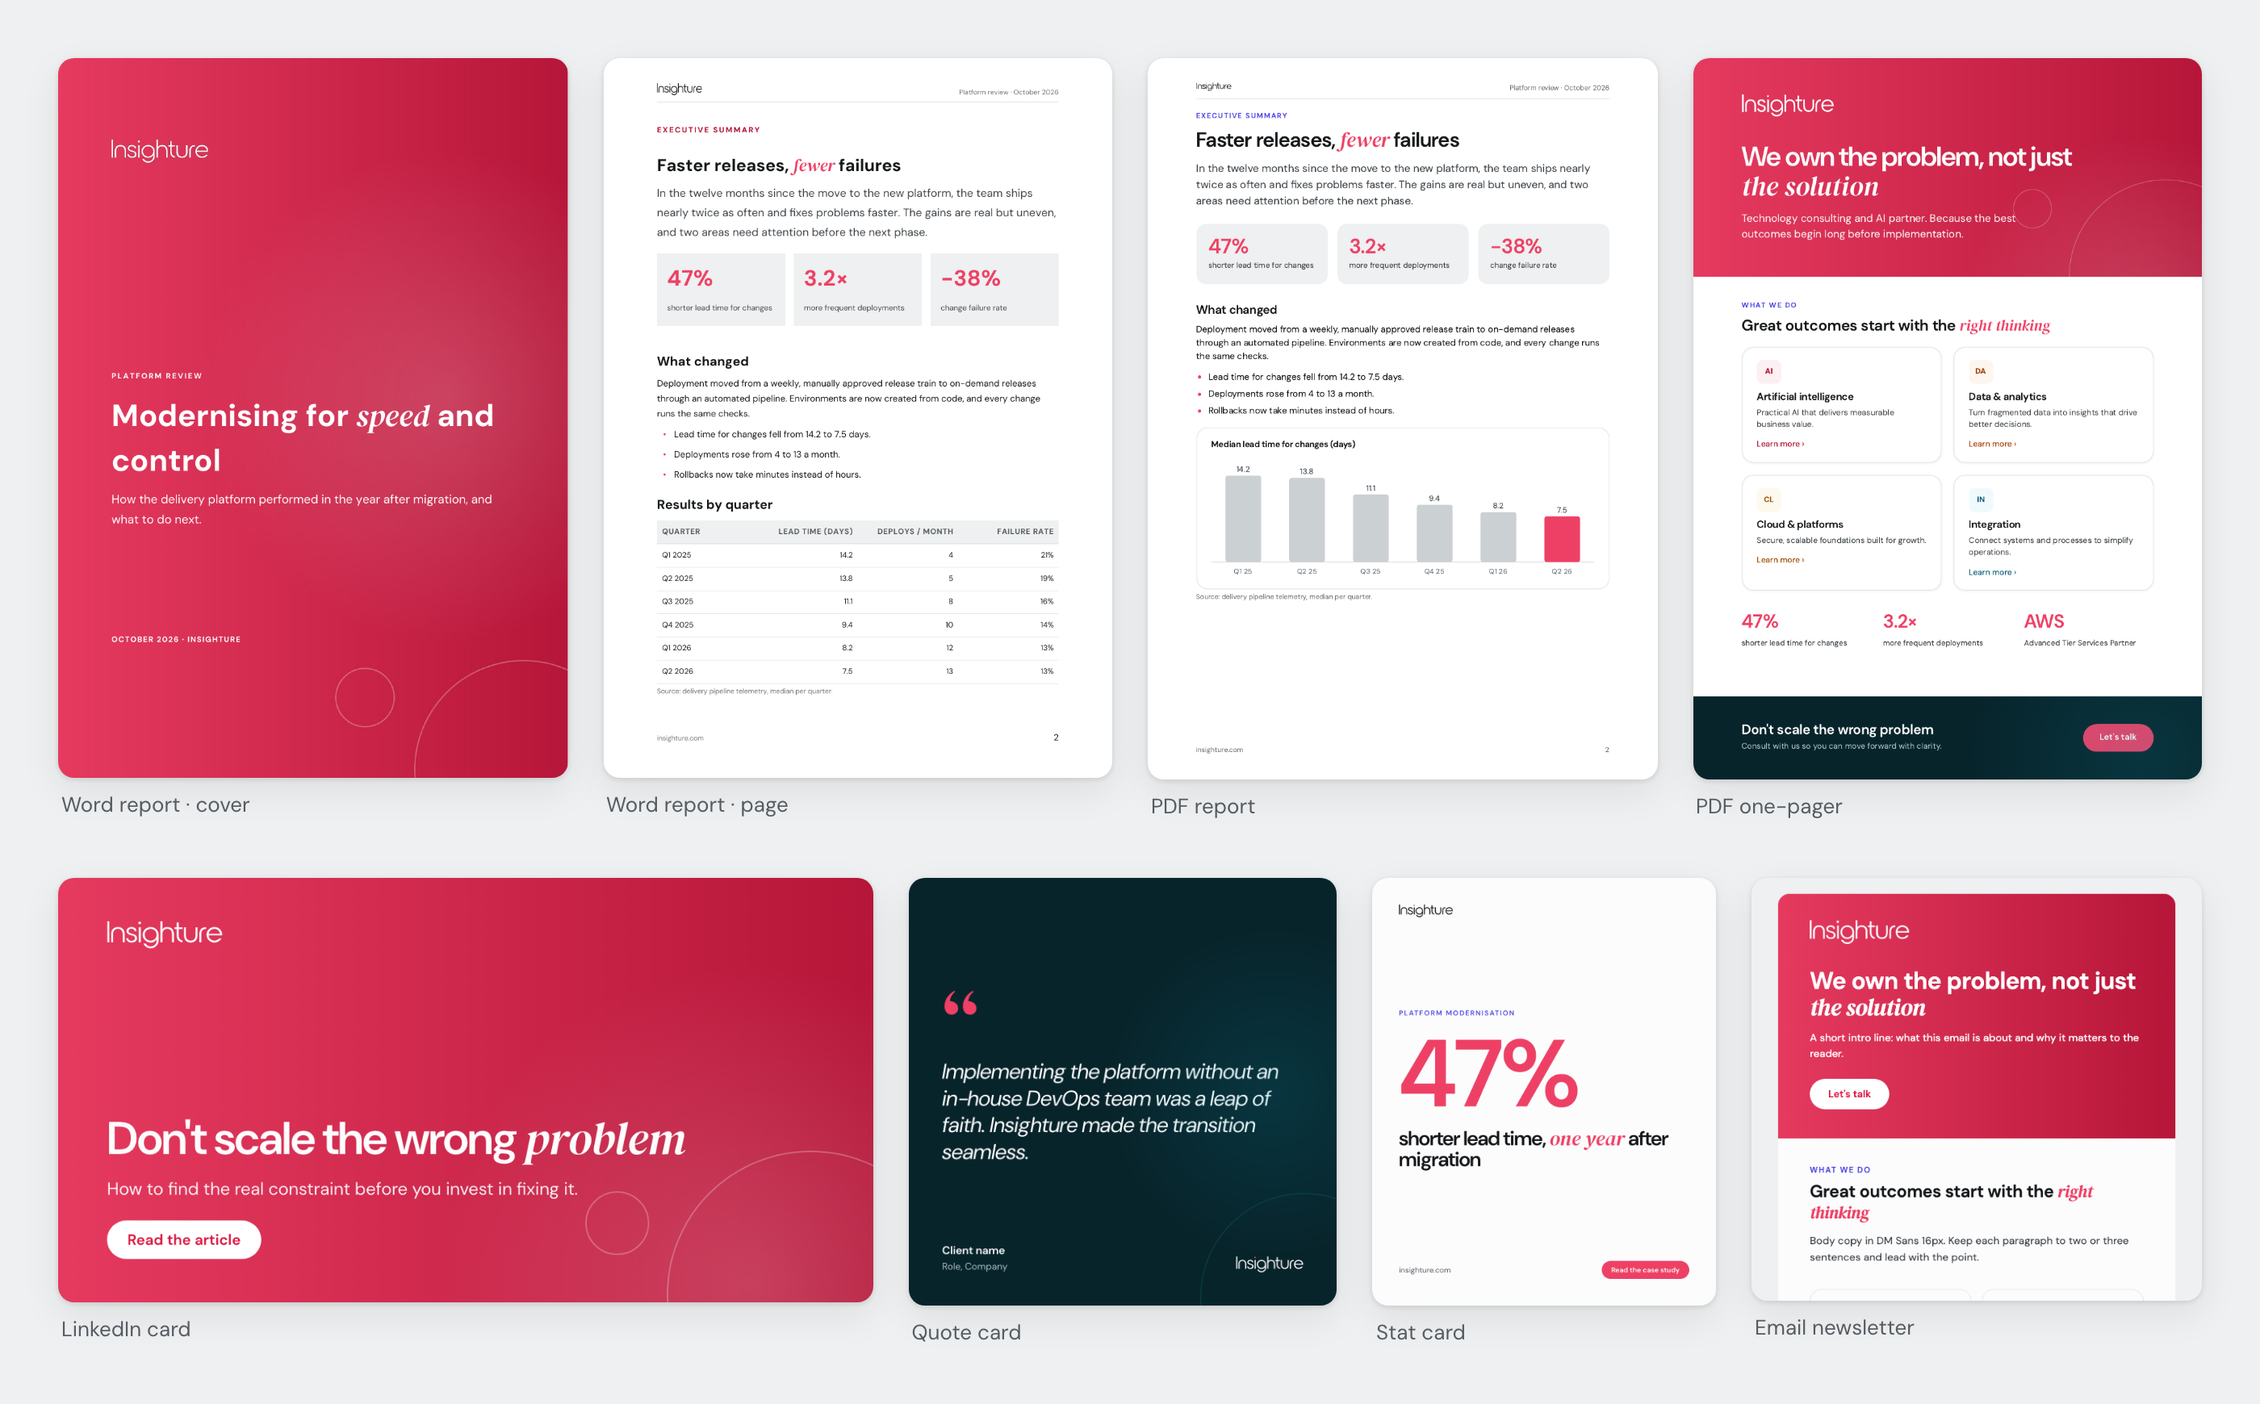
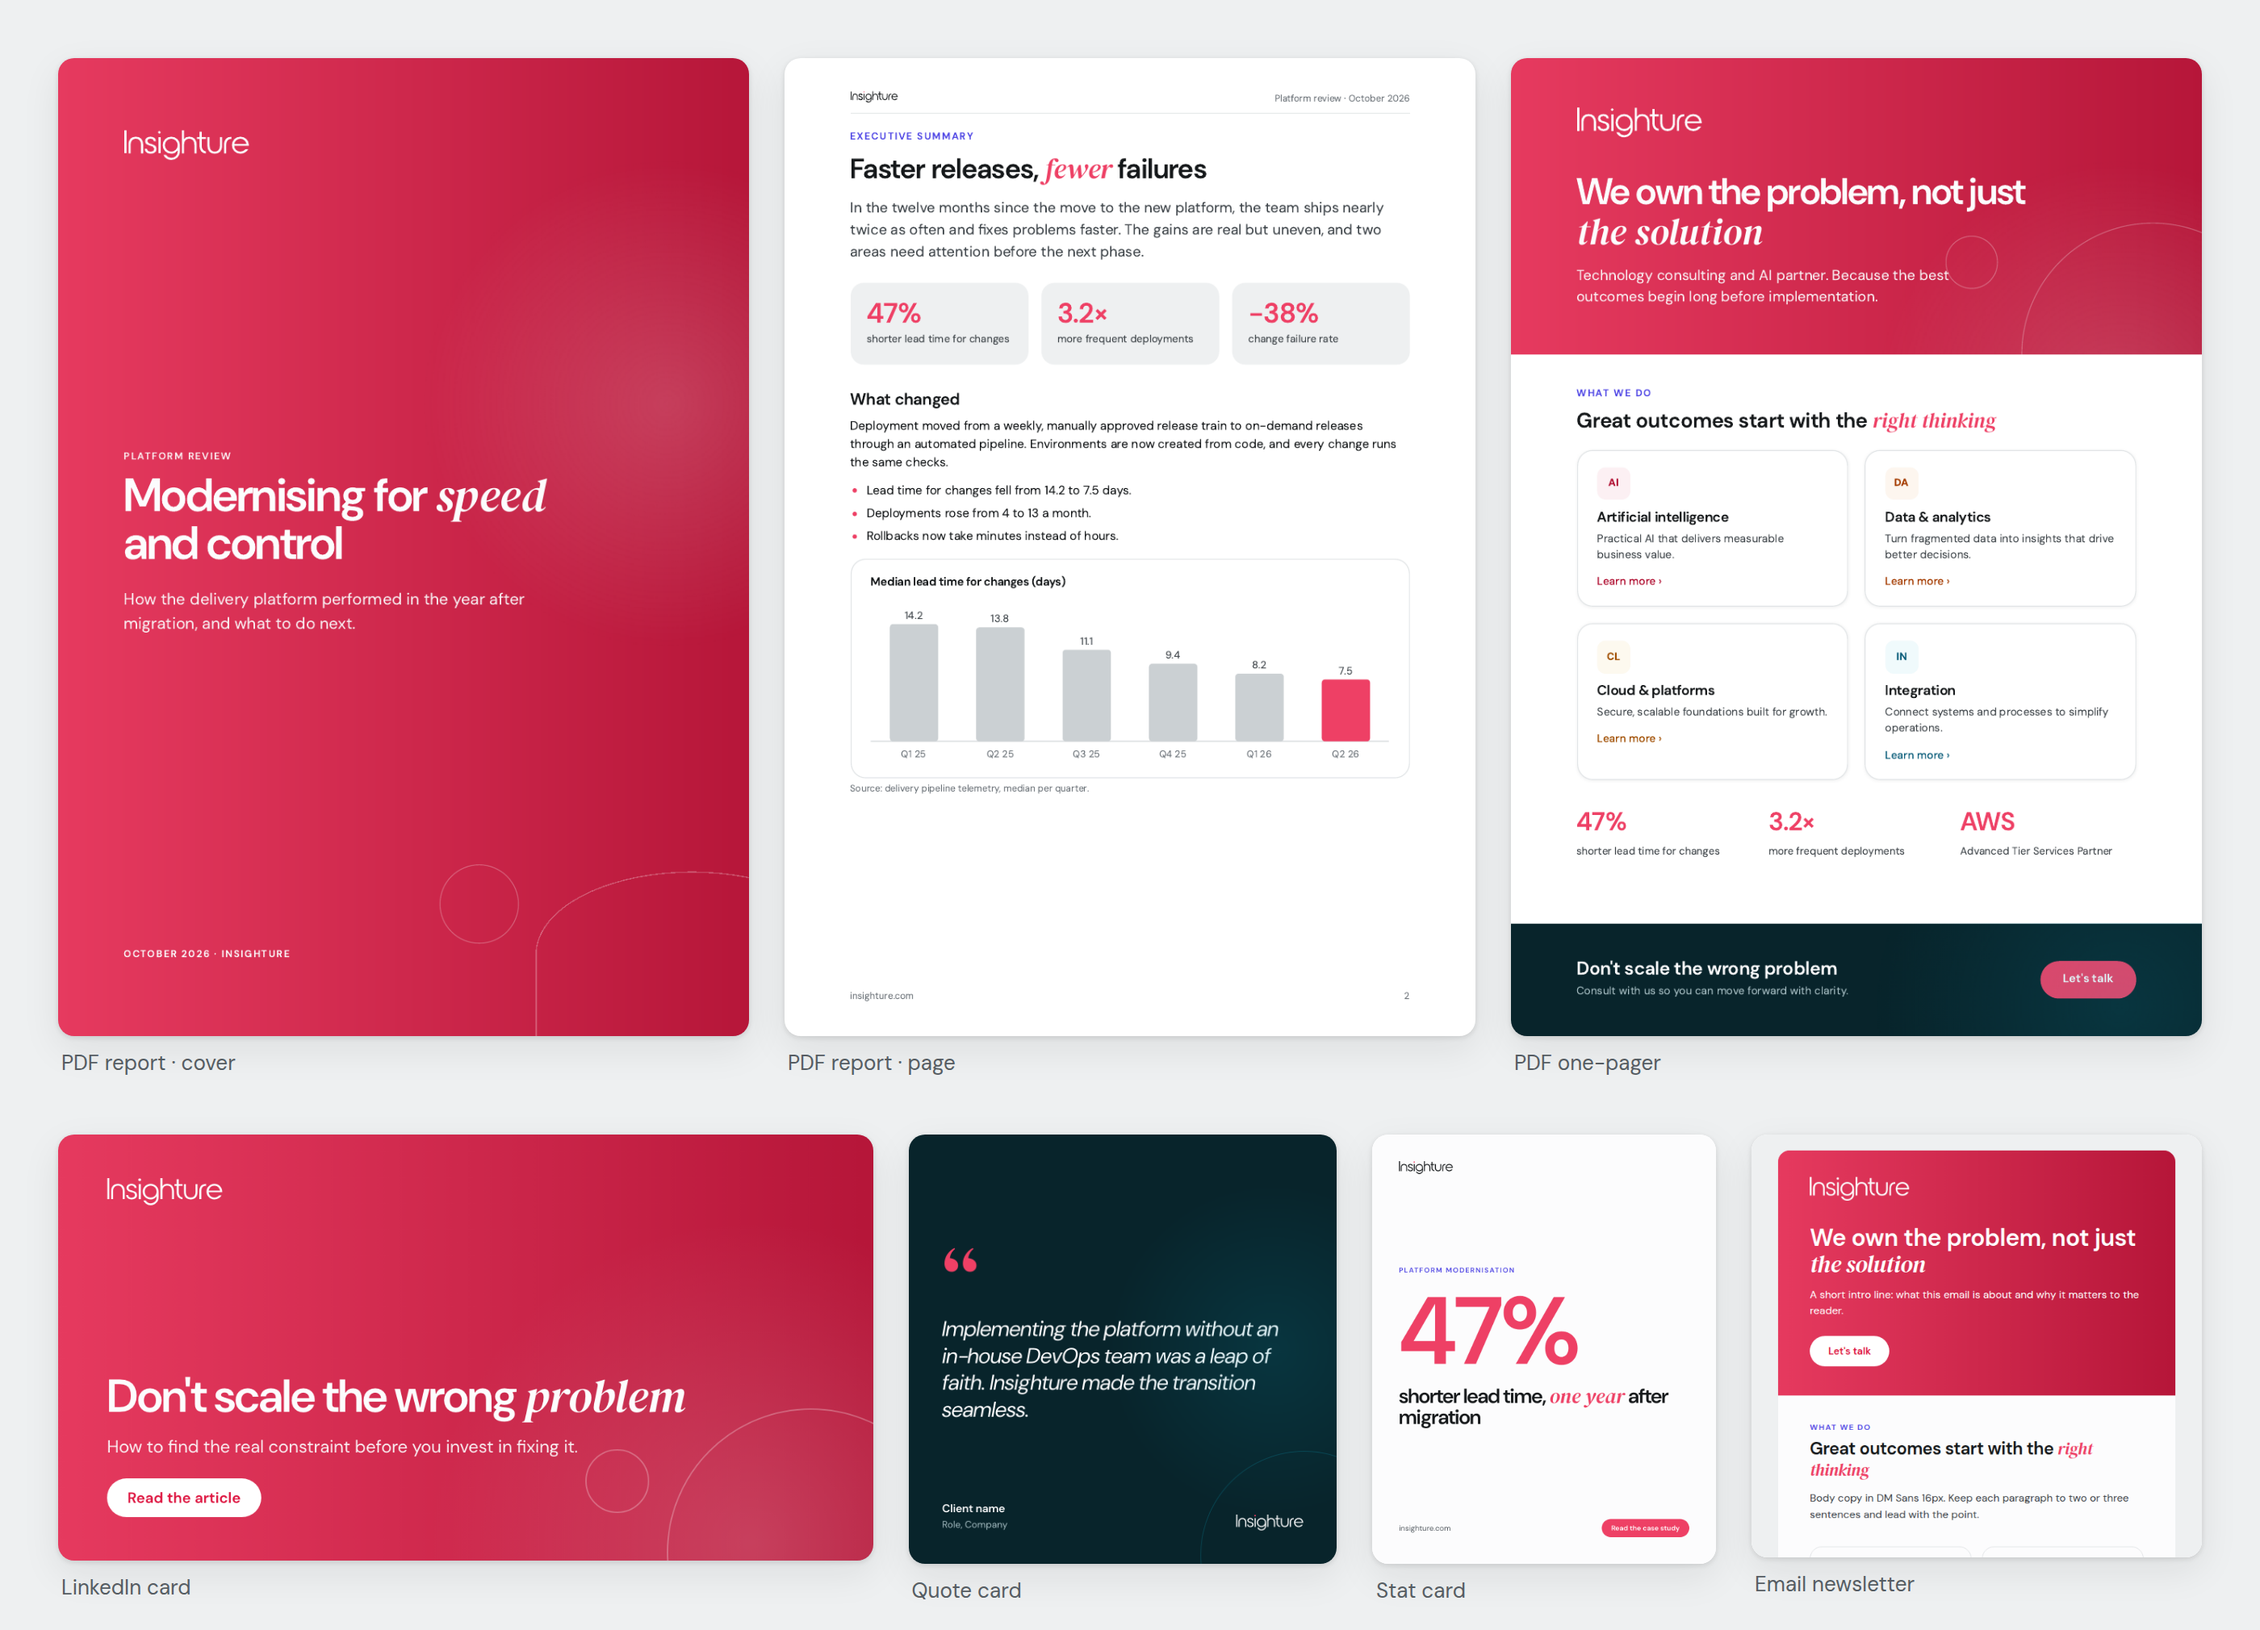
docs: re-render the documents gallery image without the removed Word report
The README's templates-documents.png still showed the Word report template that 3.0.0 removed. It now shows
what preview.mjs renders: the PDF report (cover and page), the one-pager, the social cards and the email.

templates:preview takes image names (`npm run templates:preview -- documents`), and only the slides image
needs LibreOffice, so the documents image can be re-rendered with Poppler and Chromium alone.

diff --git a/README.md b/README.md
@@ -136,7 +136,7 @@ npm run preview        # local showcase on http://localhost:5273: components, lo
 npm run typecheck
 npm run readme:assets  # re-render the images in this README
 npm run templates      # rebuild the Office / PDF / email / social templates
-npm run templates:preview  # re-render the template gallery images (needs LibreOffice + Poppler)
+npm run templates:preview  # re-render the template gallery images (needs Poppler; the slides need LibreOffice)
 ```
 
 `readme:assets` bundles `src/` and screenshots the scenes in
@@ -184,7 +184,7 @@ Usage rules (clear space, minimum size, what not to do) are in
 
 <img src="docs/assets/templates-slides.png" alt="Slides from the Insighture PowerPoint template" width="100%">
 
-<img src="docs/assets/templates-documents.png" alt="Insighture Word, PDF, social and email templates" width="100%">
+<img src="docs/assets/templates-documents.png" alt="Insighture PDF, social and email templates" width="100%">
 
 Ready-made, on-brand files in [`templates/`](templates/README.md), all
 generated from the tokens with `npm run templates`. The images above are

diff --git a/templates/README.md b/templates/README.md
@@ -8,12 +8,14 @@ tokens) and rebuild, so every template stays in step with the system.
 npm run templates                 # rebuild everything
 npm run templates -- pptx docx    # or just some: pptx docx pdf email social
 npm run templates:preview         # re-render the README gallery images
+npm run templates:preview -- documents   # or one of them: slides, documents
 npm run preview                   # browse and download them at http://localhost:5273
 ```
 
-`templates:preview` renders the real files through LibreOffice and Poppler, so
-both must be installed, along with the brand fonts. If LibreOffice can't see
-your installed fonts, set `INS_FONT_DIR` to a folder of the `.ttf` files.
+`templates:preview` renders the real files with Poppler and Playwright's
+Chromium. The slides image also goes through LibreOffice, so that needs
+LibreOffice and the brand fonts installed. If LibreOffice can't see your
+installed fonts, set `INS_FONT_DIR` to a folder of the `.ttf` files.
 
 ## What's here
 
